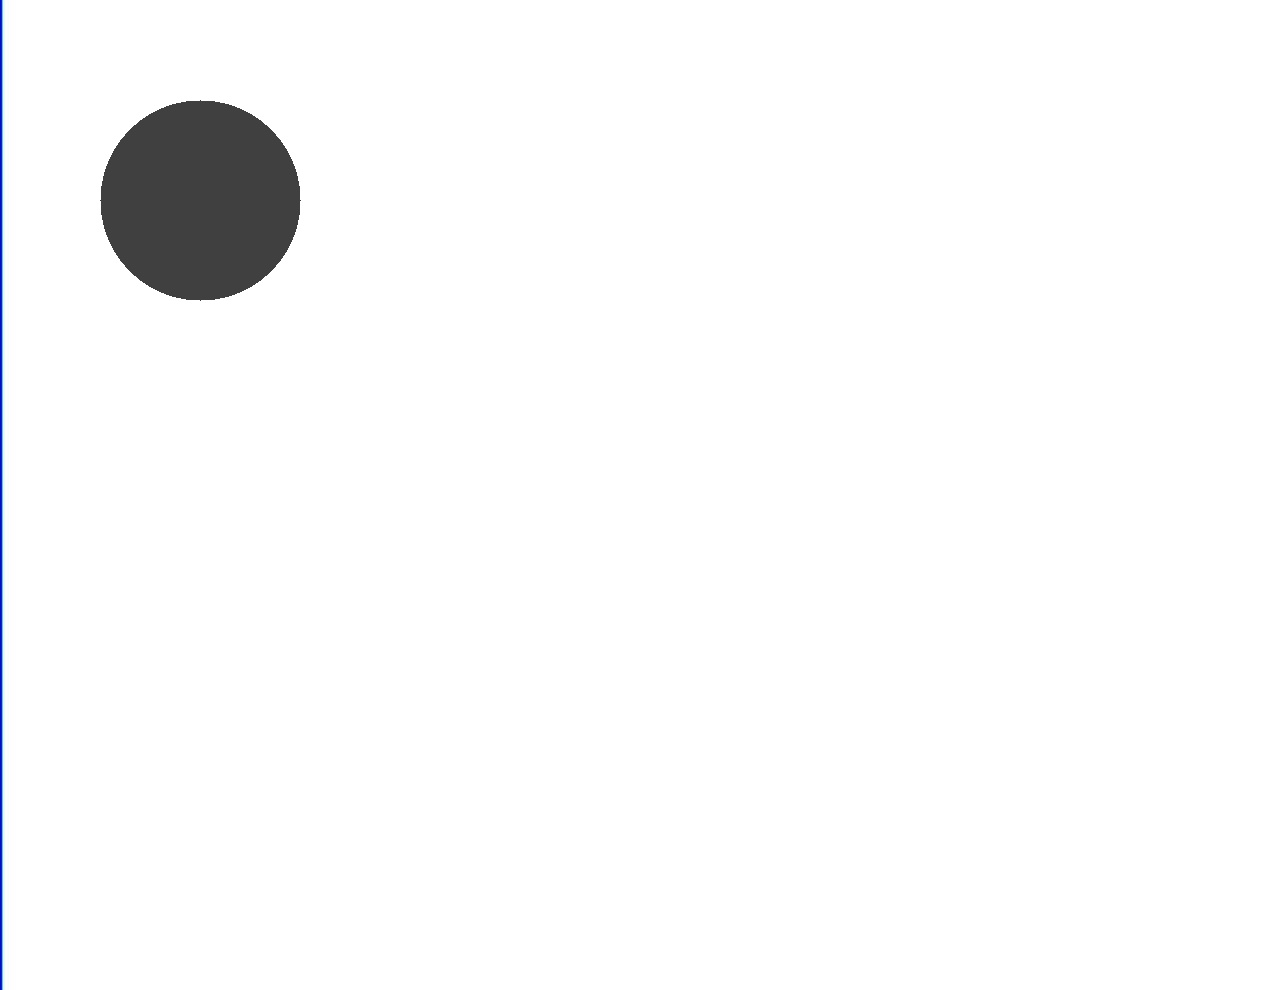
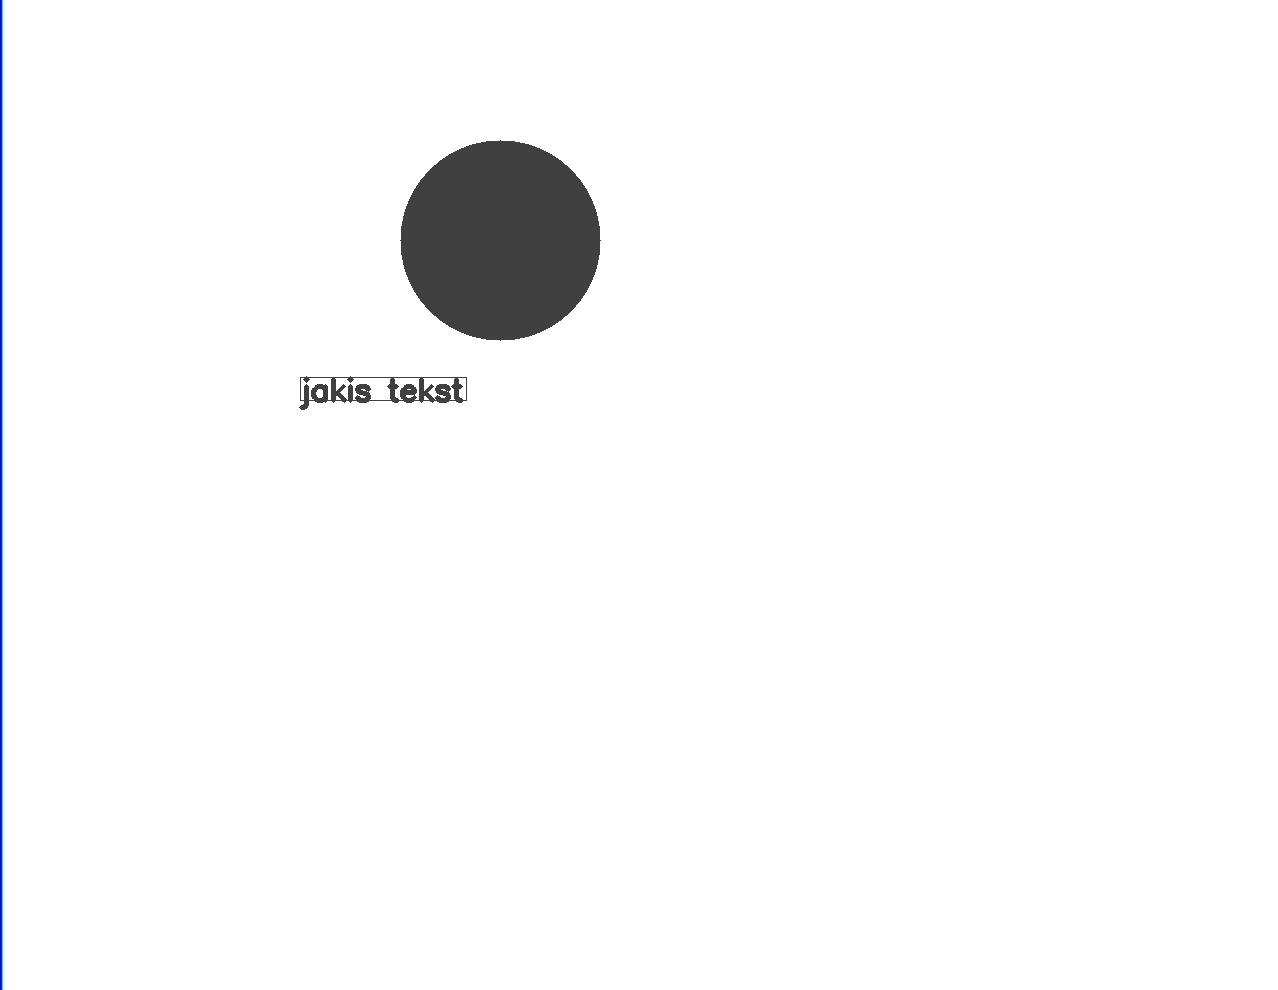
"UI full functionality added"

Changed region(s): [[0.3052, 0.1212, 0.4883, 0.3636], [0.061, 0.0909, 0.2441, 0.303], [0.2136, 0.3636, 0.3662, 0.4242]]

diff --git a/src/UI.java b/src/UI.java
@@ -1,3 +1,4 @@
+import java.util.LinkedList;
 import java.util.Scanner;
 
 public class UI {
@@ -16,16 +17,15 @@ public class UI {
         int choice=scanner.nextInt();
         switch(choice){
             case 1:
-                addItem();
+                scene.addItem(addItem());
                 break;
             case 2:
                 System.out.println("lista obiektow");
                 break;
             case 3:
-                System.out.println("rysuje");
                 scene.draw();
                 break;
-            case 4:
+            default:
                 exit = true;
                 break;
         }
@@ -39,7 +39,7 @@ public class UI {
         System.out.println("3-Rysuj scene");
         System.out.println("4-Wyjdz");
     }
-    public  void addItem() {
+    public Item addItem() {
         System.out.println("Wybierz obiekt:");
         System.out.println("1-Kolo");
         System.out.println("2-Prostokat");
@@ -51,32 +51,28 @@ public class UI {
         int choice = scanner.nextInt();
         switch (choice) {
             case 1:
-                addCircle();
-                break;
+                return addCircle();
             case 2:
-                addRect();
-                break;
+                return addRect();
             case 3:
-                addSegment();
-                break;
+                return addSegment();
             case 4:
-                addStar();
-                break;
+                return addStar();
             case 5:
-                addComplex();
-                break;
+                return addComplex();
             case 6:
-                addText();
-                break;
+                return addText();
             case 7:
-                addTriangle();
-                break;
+                return addTriangle();
+            default:
+                System.out.println("nieprawidlowy wybor");
+                return addItem();
 
 
         }
     }
 
-    public void addCircle(){
+    public Item addCircle(){
         System.out.println("Obiket wypelniony? false/true");
         boolean filled = scanner.nextBoolean();
         System.out.println("Podaj wspolrzedna x");
@@ -85,15 +81,89 @@ public class UI {
         int y = scanner.nextInt();
         System.out.println("Podaj promien");
         int radius = scanner.nextInt();
-        Item circle = new Circle(filled, new Point(x,y), radius);
-        scene.addItem(circle);
+        return new Circle(filled, new Point(x,y), radius);
 
     }
-    public void addRect(){}
-    public void addSegment(){}
-    public void addStar(){}
-    public void addComplex(){}
-    public void addText(){}
-    public void addTriangle(){}
+    public Item addRect(){
+        System.out.println("Obiket wypelniony? false/true");
+        boolean filled = scanner.nextBoolean();
+        System.out.println("Podaj wspolrzedna x");
+        int x = scanner.nextInt();
+        System.out.println("Podaj wspolrzedna y");
+        int y = scanner.nextInt();
+        System.out.println("Podaj wysokosc");
+        int height = scanner.nextInt();
+        System.out.println("Podaj szerokosc");
+        int width = scanner.nextInt();
+        return new Rect(filled,width, height, new Point(x,y));
+
+    }
+    public Item addSegment(){
+        System.out.println("Punkt startowy:");
+        System.out.println("Podaj wspolrzedna x");
+        int x = scanner.nextInt();
+        System.out.println("Podaj wspolrzedna y");
+        int y = scanner.nextInt();
+        System.out.println("Punkt koncowy");
+        System.out.println("Podaj wspolrzedna x");
+        int x1 = scanner.nextInt();
+        System.out.println("Podaj wspolrzedna y");
+        int y1 = scanner.nextInt();
+        return new Segment(new Point(x,y),new Point(x1,y1));
+
+    }
+    public Item addStar(){
+        System.out.println("Obiket wypelniony? false/true");
+        boolean filled = scanner.nextBoolean();
+        System.out.println("Podaj wspolrzedna x");
+        int x = scanner.nextInt();
+        System.out.println("Podaj wspolrzedna y");
+        int y = scanner.nextInt();
+        System.out.println("Podaj promien");
+        int radius = scanner.nextInt();
+        return new Star(filled, new Point(x,y), radius);
+
+    }
+    public Item addComplex(){
+        System.out.println("Ile obiektow chcesz dodac?");
+        int choice = scanner.nextInt();
+        ComplexItem complex = new ComplexItem(new LinkedList<>());
+        for(int i = 0; i<choice; i++){
+            complex.add(addItem());
+        }
+        return complex;
+
+    }
+    public Item addText(){
+        System.out.println("Podaj wspolrzedna x");
+        int x = scanner.nextInt();
+        System.out.println("Podaj wspolrzedna y");
+        int y = scanner.nextInt();
+        System.out.println("Podaj tresc");
+        scanner.nextLine();
+        String sText = scanner.nextLine();
+        return new TextItem(new Point(x,y),sText);
+
+    }
+    public Item addTriangle(){
+        System.out.println("Obiket wypelniony? false/true");
+        boolean filled = scanner.nextBoolean();
+        System.out.println("Punkt pierwszy:");
+        System.out.println("Podaj wspolrzedna x");
+        int x = scanner.nextInt();
+        System.out.println("Podaj wspolrzedna y");
+        int y = scanner.nextInt();
+        System.out.println("Punkt drugi");
+        System.out.println("Podaj wspolrzedna x");
+        int x1 = scanner.nextInt();
+        System.out.println("Podaj wspolrzedna y");
+        int y1 = scanner.nextInt();
+        System.out.println("Punkt trzeci:");
+        System.out.println("Podaj wspolrzedna x");
+        int x3 = scanner.nextInt();
+        System.out.println("Podaj wspolrzedna y");
+        int y3 = scanner.nextInt();
+        return new Triangle(filled, new Point(x,y), new Point(x1,y1), new Point(x3,y3));
+    }
 }
 

diff --git a/src/Star.java b/src/Star.java
@@ -54,7 +54,7 @@ public class Star extends Shape{
             Imgproc.polylines(src, list, isClosed, color, thickness);
             //Saving and displaying the image
             Imgcodecs.imwrite("arrowed_line.jpg", src);
-            HighGui.imshow("Drawing a polylines", src);
+            //HighGui.imshow("Drawing a polylines", src);
         }
         else{
             MatOfPoint points = new MatOfPoint (point1,point2,point3,point4,point5,point6,point7,point8);
@@ -62,7 +62,7 @@ public class Star extends Shape{
             Imgproc.fillConvexPoly (src, points, color);
             //Saving and displaying the image
             Imgcodecs.imwrite("arrowed_line.jpg", src);
-            HighGui.imshow("Drawing an polygon", src);
+            //HighGui.imshow("Drawing an polygon", src);
         }
         Point[] arr = getBoundingBox();
         org.opencv.core.Point point40 = new org.opencv.core.Point(position.getX(), position.getY());
@@ -72,7 +72,7 @@ public class Star extends Shape{
         Imgproc.rectangle (src, point40, point50, color1, thickness1);
         //Saving and displaying the image
         Imgcodecs.imwrite("arrowed_line.jpg", src);
-        HighGui.imshow("Drawing a rectangle", src);
+        //HighGui.imshow("Drawing a rectangle", src);
 
 
     }

diff --git a/src/TextItem.java b/src/TextItem.java
@@ -50,7 +50,7 @@ public class TextItem extends Item{
         //Adding text to the image
         Imgproc.putText(src, text, pos, font, scale, color, thickness);
         //Displaying the resultant Image
-        HighGui.imshow("Contours operation", src);
+       // HighGui.imshow("Contours operation", src);
         Point[] arr = getBoundingBox();
         org.opencv.core.Point point2 = new org.opencv.core.Point(position.getX(), position.getY());
         org.opencv.core.Point point1 = new org.opencv.core.Point(arr[2].getX(), arr[2].getY());
@@ -59,7 +59,7 @@ public class TextItem extends Item{
         Imgproc.rectangle (src, point1, point2, color1, thickness1);
         //Saving and displaying the image
         Imgcodecs.imwrite("arrowed_line.jpg", src);
-        HighGui.imshow("Drawing a rectangle", src);
+        //HighGui.imshow("Drawing a rectangle", src);
     }
 
     public String getText() {

diff --git a/src/Segment.java b/src/Segment.java
@@ -111,7 +111,7 @@ public class Segment extends PrimitiveItem{
         Imgproc.line(src, PStart, PEnd, color, thickness);
         //Saving and displaying the image
         Imgcodecs.imwrite("arrowed_line.jpg", src);
-        HighGui.imshow("Drawing a line", src);
+        //HighGui.imshow("Drawing a line", src);
         Point[] arr = getBoundingBox();
         org.opencv.core.Point point1 = new org.opencv.core.Point(position.getX(), position.getY());
         org.opencv.core.Point point2 = new org.opencv.core.Point(arr[1].getX(), arr[1].getY());
@@ -120,7 +120,7 @@ public class Segment extends PrimitiveItem{
         Imgproc.rectangle (src, point1, point2, color1, thickness1);
         //Saving and displaying the image
         Imgcodecs.imwrite("arrowed_line.jpg", src);
-        HighGui.imshow("Drawing a rectangle", src);
+        //HighGui.imshow("Drawing a rectangle", src);
 
 
     }

diff --git a/src/Triangle.java b/src/Triangle.java
@@ -107,7 +107,7 @@ public class Triangle extends Shape{
             Imgproc.fillConvexPoly (src, points, color);
             //Saving and displaying the image
             Imgcodecs.imwrite("arrowed_line.jpg", src);
-            HighGui.imshow("Drawing an polygon", src);
+           // HighGui.imshow("Drawing an polygon", src);
         }
         Point[] arr = getBoundingBox();
         org.opencv.core.Point point4 = new org.opencv.core.Point(position.getX(), position.getY());
@@ -117,7 +117,7 @@ public class Triangle extends Shape{
         Imgproc.rectangle (src, point4, point5, color1, thickness1);
         //Saving and displaying the image
         Imgcodecs.imwrite("arrowed_line.jpg", src);
-        HighGui.imshow("Drawing a rectangle", src);
+        //HighGui.imshow("Drawing a rectangle", src);
 
 
     }

diff --git a/src/Rect.java b/src/Rect.java
@@ -56,7 +56,7 @@ public class Rect extends Shape{
         Imgproc.rectangle (src, point1, point2, color, thickness);
         //Saving and displaying the image
         Imgcodecs.imwrite("arrowed_line.jpg", src);
-        HighGui.imshow("Drawing a rectangle", src);
+        //HighGui.imshow("Drawing a rectangle", src);
 
     }
 

diff --git a/src/ComplexItem.java b/src/ComplexItem.java
@@ -20,6 +20,9 @@ public class ComplexItem extends Item{
         this.position=calculatePosition();
 
     }
+    public void add(Item child){
+        children.add(child);
+    }
 
     public LinkedList<Item> getChildren() {
         return children;
